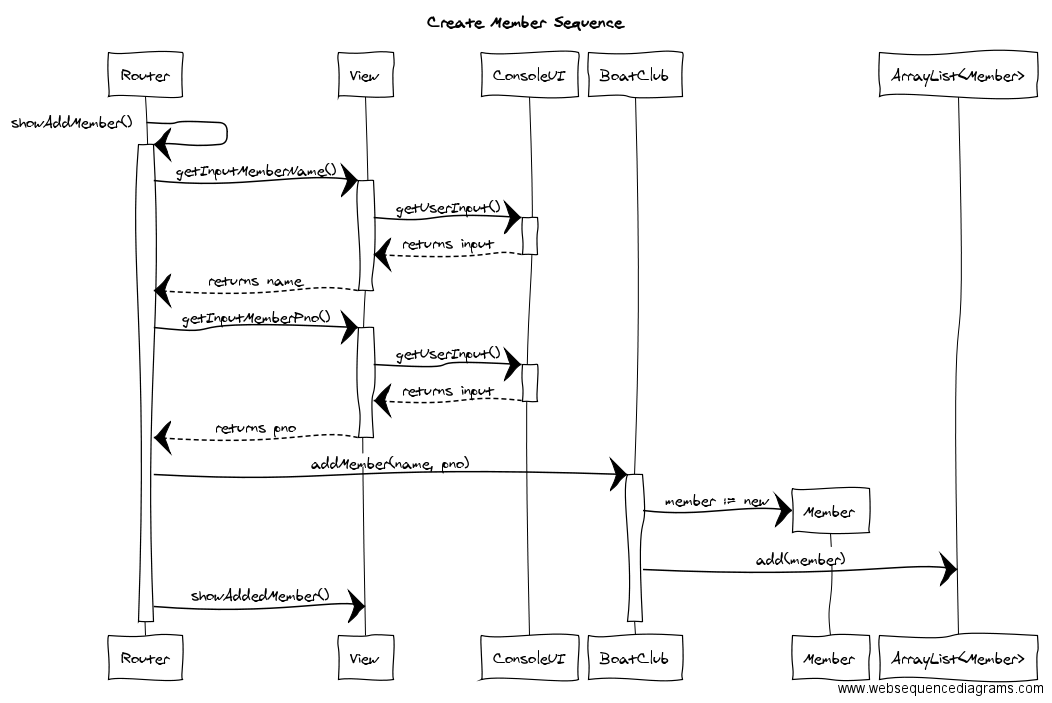
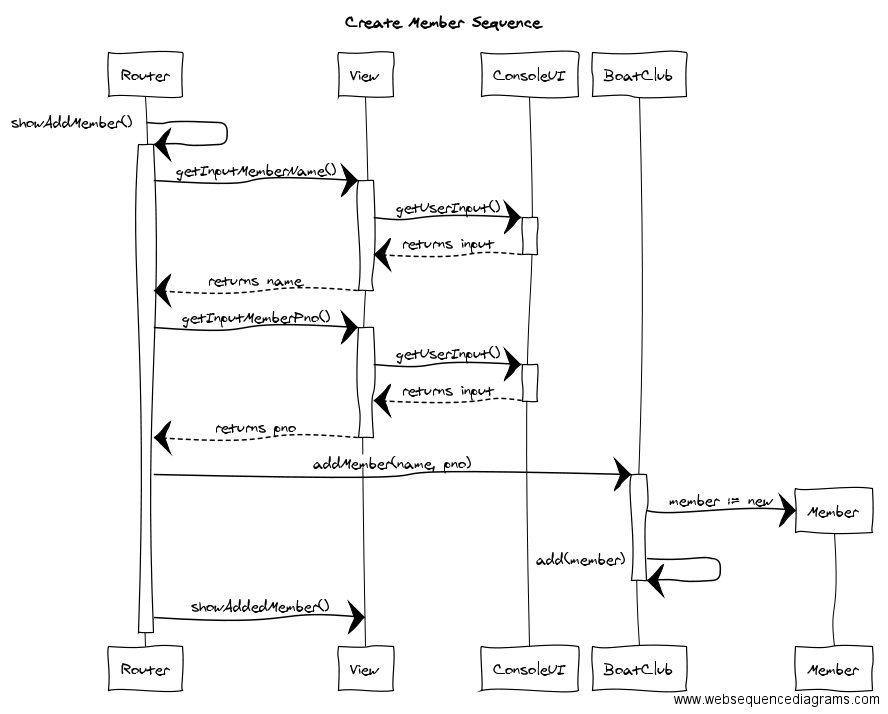
Adding updated sequence diagrams

diff --git a/workshop-2/grade-2/README.md b/workshop-2/grade-2/README.md
@@ -26,9 +26,38 @@ View-->-Router: returns pno
 
 Router->+BoatClub: addMember(name, pno)
 BoatClub->*Member: member := new
-BoatClub->ArrayList<Member>: add(member)
+BoatClub->-BoatClub: add(member)
 
 Router->View: showAddedMember()
 ```
 
 ### List members
+```
+title Create Member Sequence
+
+Router->+Router: showListOfMembersCompact()
+
+Router->+View: displayMembersListHeader()
+
+View->-View: showRow()
+
+Router->+BoatClub: getAllMembers()
+BoatClub-->-Router: returns members 
+
+loop members
+    Router->+Member: getId()
+    Member-->-Router: returns id
+    
+    Router->+Member: getName()
+    Member-->-Router: returns name
+    
+    Router->+Member: getPno()
+    Member-->-Router: returns pno
+    
+    Router->+Member: getNumberOfBoats()
+    Member-->-Router: returns numberOfBoats
+    
+    Router->+View: displayMemberListRow(id, name, pno, numberOfBoats)
+    View->-View: showRow()
+end
+```
